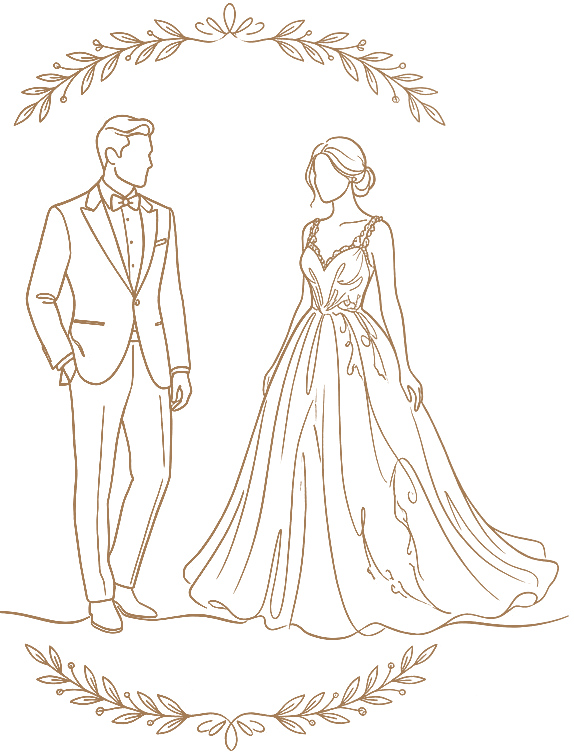
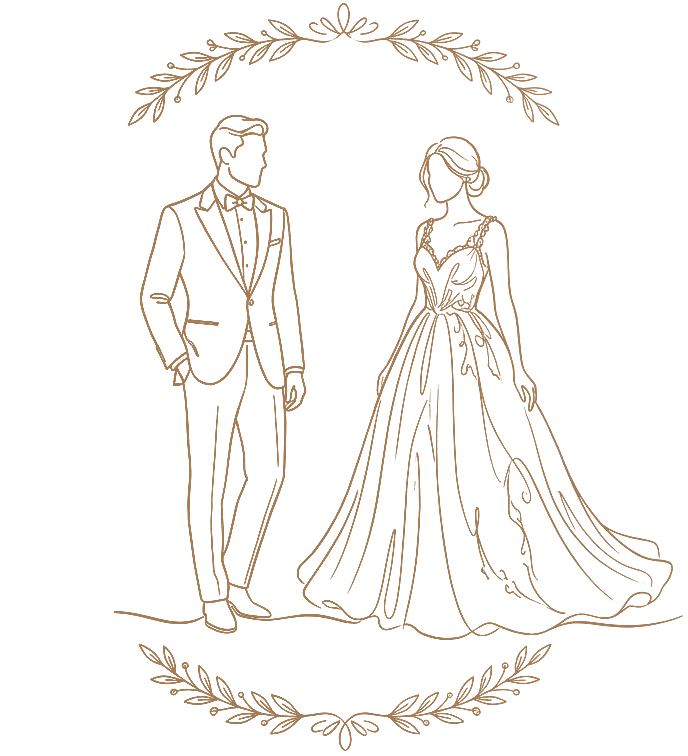
Alignment pass: centre attire art, optical centring for spaced caps, equal countdown boxes, aligned card buttons, cleaner phone wrapping
Claude-Session: https://claude.ai/code/session_01Y5LZnpC1Qy5hW2T2PCSmLH

Changed region(s): [[0.0296, 0.0, 0.9774, 1.0], [0.0, 0.791, 0.0889, 0.8214]]

diff --git a/styles.css b/styles.css
@@ -31,7 +31,7 @@ a { color: inherit; }
 /* ---------- shared type ---------- */
 .script { font-family: var(--script); font-weight: 400; color: var(--gold); line-height: 1.1; }
 .caps { text-transform: uppercase; letter-spacing: .22em; font-weight: 500; }
-.small { font-size: clamp(12.5px, 3.3vw, 15px); color: var(--ink-soft); line-height: 1.8; }
+.small { text-wrap: balance; font-size: clamp(12.5px, 3.3vw, 15px); color: var(--ink-soft); line-height: 1.8; }
 .divider { display: flex; align-items: center; gap: 12px; width: min(300px, 70%); margin: 28px auto; }
 .divider::before, .divider::after { content: ""; flex: 1; height: 1px; background: var(--gold); opacity: .7; }
 .divider span { width: 7px; height: 7px; background: var(--gold); transform: rotate(45deg); }
@@ -49,6 +49,20 @@ a { color: inherit; }
 .btn:focus-visible, input:focus-visible, select:focus-visible, textarea:focus-visible, .envelope:focus-visible {
   outline: 2px solid var(--rose); outline-offset: 3px;
 }
+
+
+/* ---------- optical centring ----------
+   Letter-spacing adds space after the last letter, which pushes centred
+   spaced-out capitals slightly left. Matching padding on the left cancels it. */
+.caps { padding-left: .22em; }
+.date { padding-left: .13em; }
+.eyebrow { padding-left: .3em; }
+.heading { padding-left: .24em; }
+.sub { padding-left: .22em; }
+.timer span { padding-left: .22em; }
+.intro-hint, .env-card-date { padding-left: .3em; }
+.btn { text-indent: .28em; }
+.btn-ghost { text-indent: .2em; }
 
 /* ---------- florals ---------- */
 .floral { position: absolute; pointer-events: none; user-select: none; z-index: 0; }
@@ -161,8 +175,8 @@ a { color: inherit; }
 /* ---------- countdown ---------- */
 .countdown { text-align: center; padding: 64px var(--gutter) 72px; background: var(--paper-deep); }
 .section-script { font-size: clamp(38px, 9vw, 52px); margin-bottom: 18px; }
-.timer { display: flex; justify-content: center; gap: clamp(10px, 4vw, 40px); }
-.timer div { min-width: clamp(64px, 18vw, 110px); padding: 16px 6px 12px; border: 1px solid var(--gold-soft); border-radius: 6px; background: var(--paper); }
+.timer { display: grid; grid-template-columns: repeat(4, minmax(0, 120px)); justify-content: center; gap: clamp(8px, 3vw, 32px); }
+.timer div { min-width: 0; padding: 16px 4px 12px; border: 1px solid var(--gold-soft); border-radius: 6px; background: var(--paper); }
 .timer b { display: block; font-size: clamp(32px, 8vw, 52px); font-weight: 500; line-height: 1; }
 .timer span { display: block; margin-top: 8px; font-size: clamp(10.5px, 2.6vw, 13px); letter-spacing: .22em; text-transform: uppercase; color: var(--rose); font-weight: 600; }
 
@@ -174,11 +188,11 @@ a { color: inherit; }
 .section .divider { margin-top: 16px; margin-bottom: 40px; }
 
 .detail-grid { display: grid; grid-template-columns: repeat(auto-fit, minmax(260px, 1fr)); gap: 22px; max-width: 820px; margin: 0 auto; }
-.card { padding: 34px 24px 30px; background: rgba(255, 255, 255, .35); border: 1px solid var(--gold-soft); border-radius: 6px; }
+.card { display: flex; flex-direction: column; align-items: center; padding: 34px 24px 30px; background: rgba(255, 255, 255, .35); border: 1px solid var(--gold-soft); border-radius: 6px; }
 .eyebrow { font-size: 13px; font-weight: 600; letter-spacing: .3em; text-transform: uppercase; color: var(--rose); margin-bottom: 12px; }
 .card-big { font-size: clamp(24px, 6vw, 30px); font-weight: 500; line-height: 1.25; }
 .card-text { color: var(--ink-soft); font-size: 18px; margin-top: 8px; }
-.card-actions { display: flex; flex-wrap: wrap; gap: 10px; justify-content: center; margin-top: 22px; }
+.card-actions { display: flex; flex-wrap: wrap; gap: 10px; justify-content: center; margin-top: auto; padding-top: 22px; }
 .map { max-width: 820px; margin: 22px auto 0; border-radius: 6px; overflow: hidden; border: 1px solid var(--gold-soft); aspect-ratio: 16 / 9; background: var(--paper-deep); }
 .map iframe { width: 100%; height: 100%; border: 0; filter: sepia(.25) saturate(.8); }
 
@@ -200,14 +214,14 @@ a { color: inherit; }
 .rites { display: grid; gap: 22px; margin-top: 26px; }
 
 /* ---------- attire ---------- */
-.attire-art { max-width: 420px; margin: 0 auto; }
+.attire-art { max-width: 500px; margin: 0 auto; }
 .attire-art img { width: 100%; height: auto; margin: 0 auto; }
 .attire-art figcaption { margin-top: 18px; }
 .attire-art .card-text { text-wrap: balance; }
 
 /* ---------- RSVP ---------- */
 .rsvp { max-width: 520px; margin: 34px auto 0; text-align: left; display: grid; gap: 20px;
-  padding: clamp(24px, 6vw, 40px); background: rgba(255, 255, 255, .45); border: 1px solid var(--gold-soft); border-radius: 8px; }
+  padding: clamp(24px, 6vw, 40px); background: #f8efea; border: 1px solid var(--gold-soft); border-radius: 8px; }
 .rsvp-hello { text-align: center; font-size: 22px; font-style: italic; color: var(--ink); }
 .field { display: grid; gap: 7px; }
 .field > span, .choice legend { font-size: 14px; font-weight: 600; letter-spacing: .12em; text-transform: uppercase; color: var(--ink-soft); }
@@ -253,16 +267,18 @@ select { appearance: none; background-image: linear-gradient(45deg, transparent 
 
 @media (max-width: 520px) {
   .split > div { padding: 2px 6px; }
-  .split .sub { font-size: 12px; letter-spacing: .13em; white-space: nowrap; }
+  .split .sub { font-size: 12px; letter-spacing: .13em; padding-left: .13em; white-space: nowrap; }
   body { font-size: 17px; }
   .nav-mono { display: none; }
   .nav { justify-content: center; }
   .choice { grid-template-columns: 1fr; }
-  .attire-art { max-width: 300px; }
+  .attire-art { max-width: 380px; }
+  .fl-sec-br { width: 120px; opacity: .75; }
+  .caps.small { letter-spacing: .18em; padding-left: .18em; }
 }
 
 @media (max-width: 380px) {
-  .split .sub { font-size: 11.5px; letter-spacing: .08em; }
+  .split .sub { font-size: 11.5px; letter-spacing: .08em; padding-left: .08em; }
 }
 
 @media (prefers-reduced-motion: reduce) {

diff --git a/index.html b/index.html
@@ -13,7 +13,7 @@
 <link rel="preconnect" href="https://fonts.googleapis.com">
 <link rel="preconnect" href="https://fonts.gstatic.com" crossorigin>
 <link href="https://fonts.googleapis.com/css2?family=Cormorant+Garamond:ital,wght@0,400;0,500;0,600;1,400;1,500&family=Pinyon+Script&display=swap" rel="stylesheet">
-<link rel="stylesheet" href="styles.css?v=10">
+<link rel="stylesheet" href="styles.css?v=11">
 </head>
 <body class="locked">
 
@@ -72,13 +72,13 @@
         <span class="and"><span class="script">and</span></span>
         <span class="name">Daniel Geoff Green</span>
       </h1>
-      <p class="caps small reveal">Joyfully invite you to celebrate our wedding</p>
+      <p class="caps small reveal">Joyfully invite you to celebrate <span class="nw">our wedding</span></p>
 
       <div class="divider reveal"><span></span></div>
 
       <p class="date reveal">Wednesday, 4 August 2027<br>4:00 pm</p>
       <p class="script venue-script reveal">Surf Suites</p>
-      <p class="caps small reveal">URBNSURF Sydney · Sydney Olympic Park</p>
+      <p class="caps small reveal">URBNSURF Sydney<br>Sydney Olympic Park</p>
 
       <a href="#rsvp" class="btn reveal">RSVP</a>
     </div>
@@ -184,7 +184,7 @@
     <h2 class="script section-title reveal">Attire</h2>
     <div class="divider reveal"><span></span></div>
     <figure class="attire-art reveal">
-      <img src="assets/couple.png?v=10" width="574" height="756" alt="Line drawing of a groom in a tuxedo and a bride in a flowing gown, framed by laurel sprigs">
+      <img src="assets/couple.png?v=11" width="688" height="756" alt="Line drawing of a groom in a tuxedo and a bride in a flowing gown, framed by laurel sprigs">
       <figcaption>
         <p class="card-big">Formal</p>
         <p class="card-text">Please join us dressed in your best formal attire.</p>
